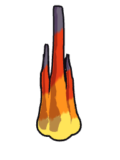
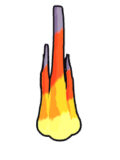
Toon materials render in MoonRay as the viewport shows them, and can glow
MoonRay's toon ramp runs from fully lit (0) to edge-on (1), and a stepped key's
colour holds up to its position; ours ran the other way, so lit faces took the
shadow colour. The ramp is now built that way round, with the shadow size in
where the bands change. Toon materials get a light of their own, from the
scene's strongest light, at the strength that shows a lit band at its colour
(MoonRay's toon diffuse is flat, at half a plain surface's), and the shadow
tint comes from emission, so unlit sides show base × tint as in the viewport
rather than black.

The Toon Shader has a Glow setting: it glows in its own lit colour (Cd, with
Use point colour) times this, in the viewport and in MoonRay. Toon fire glows
at 0.5.

Changed region(s): [[0.3, 0.0312, 0.675, 0.875]]

diff --git a/src/shading.rs b/src/shading.rs
@@ -113,6 +113,8 @@ pub const TOON: &[Param] = &[
     t("use_point_color", "Use point colour (Cd)", "Toon", false),
     f("outline_width", "Outline width (pixels)", "Outline", 0.0, 12.0, 2.0),
     c("outline_color", "Outline color", "Outline", [0.06, 0.05, 0.08]),
+    // Glows in its own lit colour (Cd, with Use point colour) times this: flames, magic.
+    f("glow", "Glow (own colour)", "Emission", 0.0, 3.0, 0.0),
 ];
 
 pub type Preset = (&'static str, &'static [(&'static str, [f32; 3])]);
@@ -360,7 +362,7 @@ impl Values {
             shade: [self.float("bands").round().clamp(2.0, 8.0), self.float("softness").clamp(0.0, 1.0), self.float("terminator"), self.float("highlight_size").clamp(0.0, 1.0)],
             shadow: [sr, sg, sb, self.float("outline_width").max(0.0)],
             highlight: [highlight[0], highlight[1], highlight[2], 0.0],
-            emission: [emission[0], emission[1], emission[2], 0.0],
+            emission: [emission[0], emission[1], emission[2], self.float("glow").max(0.0)],
             outline: [or, og, ob, 1.0],
         }
     }
@@ -506,32 +508,54 @@ pub fn hair_rdla(name: &str, p: &Values) -> (&'static str, String) {
 
 // DwaToonMaterial: banded ramp diffuse from the shadow tint up to the lit colour,
 // with a hard-edged toon highlight.
+// MoonRay's toon material, made to look like the viewport's Toon shading (fs_toon in
+// gpu_viewport.rs), which shows the lit band at the surface's own colour however bright
+// the light is, the unlit side at that colour times the shadow tint, and no shading
+// between bands. MoonRay's toon diffuse is flat within a band but looks its ramp up from
+// fully lit (0) to edge-on (1), is lit only on the side facing the light, and scales with
+// the light; so:
+// - the ramp runs from the top band at 0 down to the darkest, with the shadow size folded
+//   into where the bands change;
+// - the shadow tint's share comes from emission (base × shadow tint, everywhere, as in the
+//   viewport, which casts no shadows), and the ramp adds the rest, (1 - tint) × band;
+// - toon materials are lit by one light of their own (TOON_LIGHT in render.rs), strong
+//   enough that a fully lit band shows the base colour exactly.
+// Glow and the emission colour add to the emission.
 pub fn toon_rdla(name: &str, p: &Values, objects: &mut String) -> (&'static str, String) {
     let bands = (p.float("bands").round() as usize).clamp(2, 8);
-    let shadow = p.color("shadow_color");
-    let mut positions = Vec::new();
+    let shadow = p.color("shadow_color").map(|c| c.clamp(0.0, 1.0));
+    let shift = p.float("terminator");
+    // The viewport's band k starts where the light, cos + shift, reaches k / bands, i.e. at
+    // 1 - cos = 1 + shift - k / bands. MoonRay's stepped ramp shows each key's colour up to
+    // its position (from the key before), so each band's key sits where the band ends:
+    // band k ends at 1 + shift - k / bands, and the darkest at 1.
+    let mut positions: Vec<f32> = Vec::new();
     let mut colours = Vec::new();
-    for i in 0..bands {
-        let t = i as f32 / (bands - 1) as f32;
-        positions.push(format!("{:.4}", i as f32 / bands as f32));
-        colours.push(rgb(std::array::from_fn(|k| shadow[k] + (1.0 - shadow[k]) * t)));
+    for j in 0..bands {
+        let band = bands - 1 - j;
+        let at = if band == 0 { 1.0 } else { (1.0 + shift - band as f32 / bands as f32).clamp(0.0, 1.0) };
+        positions.push(at.max(positions.last().copied().unwrap_or(0.0)));
+        let level = band as f32 / (bands - 1) as f32;
+        colours.push(rgb(std::array::from_fn(|k| (1.0 - shadow[k]) * level)));
     }
     let interpolation = if p.float("softness") > 0.5 { 1 } else { 0 };
     let mut body = String::new();
-    let albedo = if p.flag("use_point_color") {
+    let point_colour = p.flag("use_point_color").then(|| {
         let map = format!("{name}_point_color");
         objects.push_str(&attribute_map(&map, "Cd", 3, p.color("base_color")));
-        // Bound, as maps must be: given plainly, MoonRay keeps the attribute's default (grey).
-        format!("bind(AttributeMap(\"{map}\"))")
-    } else {
-        rgb(p.color("base_color"))
+        map
+    });
+    let albedo = match &point_colour {
+        Some(map) => format!("bind(AttributeMap(\"{map}\"))"),
+        None => rgb(p.color("base_color")),
     };
     body.push_str(&format!("    [\"albedo\"] = {albedo},\n"));
     body.push_str("    [\"diffuse_model\"] = 1,\n");
-    body.push_str(&format!("    [\"positions\"] = {{{}}},\n", positions.join(", ")));
+    body.push_str(&format!("    [\"positions\"] = {{{}}},\n", positions.iter().map(|x| format!("{x:.4}")).collect::<Vec<_>>().join(", ")));
     body.push_str(&format!("    [\"colors\"] = {{{}}},\n", colours.join(", ")));
     body.push_str(&format!("    [\"interpolations\"] = {{{}}},\n", vec![interpolation.to_string(); bands].join(", ")));
-    body.push_str(&format!("    [\"terminator_shift\"] = {:.4},\n", p.float("terminator")));
+    // The shadow size is in the positions above.
+    body.push_str("    [\"terminator_shift\"] = 0.0,\n");
     let highlight = p.float("highlight");
     if highlight > 0.0 {
         body.push_str("    [\"specular_model\"] = 2,\n");
@@ -541,10 +565,26 @@ pub fn toon_rdla(name: &str, p: &Values, objects: &mut String) -> (&'static str,
     } else {
         body.push_str("    [\"show_specular\"] = false,\n");
     }
-    let emission = p.float("emission_intensity");
-    if emission > 0.0 {
+    // Emission: base × (shadow tint + glow) + the emission colour.
+    let glow = p.float("glow").max(0.0);
+    let gain: [f32; 3] = std::array::from_fn(|k| shadow[k] + glow);
+    let constant = p.color("emission_color").map(|c| c * p.float("emission_intensity").max(0.0));
+    if gain.iter().chain(&constant).any(|v| *v > 0.0) {
         body.push_str("    [\"show_emission\"] = true,\n");
-        body.push_str(&format!("    [\"emission\"] = {},\n", rgb(p.color("emission_color").map(|c| c * emission))));
+        match &point_colour {
+            Some(map) => {
+                let glow_map = format!("{name}_glow");
+                objects.push_str(&format!(
+                    "ColorCorrectGainOffsetMap(\"{glow_map}\") {{\n    [\"input\"] = bind(AttributeMap(\"{map}\")),\n    [\"use_per_channel_gain_offset\"] = true,\n    [\"gain_r\"] = {:.4},\n    [\"gain_g\"] = {:.4},\n    [\"gain_b\"] = {:.4},\n    [\"offset_r\"] = {:.4},\n    [\"offset_g\"] = {:.4},\n    [\"offset_b\"] = {:.4},\n}}\n\n",
+                    gain[0], gain[1], gain[2], constant[0], constant[1], constant[2]
+                ));
+                body.push_str(&format!("    [\"emission\"] = bind(ColorCorrectGainOffsetMap(\"{glow_map}\")),\n"));
+            }
+            None => {
+                let base = p.color("base_color");
+                body.push_str(&format!("    [\"emission\"] = {},\n", rgb(std::array::from_fn(|k| base[k] * gain[k] + constant[k]))));
+            }
+        }
     }
     ("DwaToonMaterial", format!("DwaToonMaterial(\"{name}\") {{\n{body}}}\n"))
 }

diff --git a/src/app/render.rs b/src/app/render.rs
@@ -1187,6 +1187,30 @@ impl ProceduralFxStudioApp {
             light_names.push("EnvLight(\"/scene/lights/env\")".to_string());
         }
 
+        // Toon materials' own light (see shading::toon_rdla): from the strongest light, or
+        // the key light's direction, at the strength that shows a lit band at its colour.
+        let toon_parts: Vec<bool> = parts.iter().map(|(_, m)| matches!(m, PartMaterial::Node(id) if matches!(self.graph.nodes.get(id).map(|n| &n.kind), Some(NodeKind::Shader(v)) if v.table == shading::Table::Toon))).collect();
+        if toon_parts.iter().any(|t| *t) {
+            let strongest = scene.lights.iter().max_by(|a, b| a.3.partial_cmp(&b.3).unwrap_or(std::cmp::Ordering::Equal));
+            let direction = match strongest {
+                Some((position, _, _, _, 1)) => Vec3::zero().sub(*position).normalize(),
+                Some((_, direction, ..)) => *direction,
+                None => Vec3::from_arr(self.key_light_dir).normalize(),
+            };
+            let color = strongest.map_or([1.0; 3], |l| l.2);
+            let z = Vec3::new(-direction.x, -direction.y, direction.z).normalize();
+            let hint = if z.y.abs() > 0.99 { Vec3::new(1.0, 0.0, 0.0) } else { Vec3::new(0.0, 1.0, 0.0) };
+            let x = hint.cross(z).normalize();
+            let y = z.cross(x);
+            writeln!(f, "DistantLight(\"/scene/lights/toon\") {{") .map_err(|e| e.to_string())?;
+            writeln!(f, "    [\"node_xform\"] = {},", mat4(x, y, z, Vec3::zero())) .map_err(|e| e.to_string())?;
+            writeln!(f, "    [\"color\"] = Rgb({:.4}, {:.4}, {:.4}),", color[0], color[1], color[2]) .map_err(|e| e.to_string())?;
+            writeln!(f, "    [\"intensity\"] = {TOON_LIGHT:.4},") .map_err(|e| e.to_string())?;
+            writeln!(f, "    [\"angular_extent\"] = 0.53,") .map_err(|e| e.to_string())?;
+            writeln!(f, "}}\n") .map_err(|e| e.to_string())?;
+            writeln!(f, "LightSet(\"/scene/lightsets/toon\") {{\n    DistantLight(\"/scene/lights/toon\"),\n}}\n") .map_err(|e| e.to_string())?;
+        }
+
         writeln!(f, "LightSet(\"/scene/lightsets/LightSet1\") {{") .map_err(|e| e.to_string())?;
         for light in &light_names {
             writeln!(f, "    {light},") .map_err(|e| e.to_string())?;
@@ -1194,9 +1218,10 @@ impl ProceduralFxStudioApp {
         writeln!(f, "}}\n") .map_err(|e| e.to_string())?;
 
         writeln!(f, "Layer(\"/scene/layers/Layer1\") {{") .map_err(|e| e.to_string())?;
-        for (geometry, material) in part_geometry.iter().zip(&layer_materials) {
+        for ((geometry, material), toon) in part_geometry.iter().zip(&layer_materials).zip(&toon_parts) {
+            let lights = if *toon { "toon" } else { "LightSet1" };
             for geometry in geometry {
-                writeln!(f, "    {{{geometry}, \"\", {material}, LightSet(\"/scene/lightsets/LightSet1\"), undef(), undef(), undef(), undef()}},") .map_err(|e| e.to_string())?;
+                writeln!(f, "    {{{geometry}, \"\", {material}, LightSet(\"/scene/lightsets/{lights}\"), undef(), undef(), undef(), undef()}},") .map_err(|e| e.to_string())?;
             }
         }
         for index in 0..scene.volumes.len() {
@@ -1616,3 +1641,7 @@ fn particle_material(name: &str, mesh: &Mesh) -> String {
     }
     format!("{maps}DwaBaseMaterial(\"{name}\") {{\n{}\n}}\n\n", attrs.join("\n"))
 }
+
+// How strong toon materials' own light is: MoonRay's toon diffuse is flat, at half what a
+// plain surface facing a light of strength 1 gets, so 2 shows a lit band at its colour.
+pub(crate) const TOON_LIGHT: f32 = 2.0 * DISTANT_LIGHT_SCALE;

diff --git a/src/gpu_viewport.rs b/src/gpu_viewport.rs
@@ -72,7 +72,7 @@ pub struct ToonMaterial {
     pub shadow: [f32; 4],
     // Highlight colour times its strength.
     pub highlight: [f32; 4],
-    // Emission colour times its intensity.
+    // Emission colour times its intensity, and the glow (its own colour times this).
     pub emission: [f32; 4],
     pub outline: [f32; 4],
 }
@@ -91,7 +91,7 @@ impl ToonMaterial {
         let k = ((f - (1.0 - w)) / w).clamp(0.0, 1.0);
         let band = ((x.floor() + k * k * (3.0 - 2.0 * k)) / (bands - 1.0)).clamp(0.0, 1.0);
         let spot = if t >= 1.0 - 0.3 * self.shade[3] { 1.0 } else { 0.0 };
-        std::array::from_fn(|c| (base[c] * (self.shadow[c] + (1.0 - self.shadow[c]) * band) + self.highlight[c] * spot + self.emission[c]).clamp(0.0, 1.0))
+        std::array::from_fn(|c| (base[c] * (self.shadow[c] + (1.0 - self.shadow[c]) * band + self.emission[3]) + self.highlight[c] * spot + self.emission[c]).clamp(0.0, 1.0))
     }
 }
 
@@ -418,7 +418,7 @@ struct Toon {
     shade: vec4<f32>,     // bands, softness, shadow size, highlight size
     shadow: vec4<f32>,    // shadow tint, outline width (pixels)
     highlight: vec4<f32>, // colour × strength
-    emission: vec4<f32>,  // colour × intensity
+    emission: vec4<f32>,  // colour × intensity, and glow (own colour × w)
     outline: vec4<f32>,   // colour
 };
 @group(2) @binding(0) var<uniform> toons: array<Toon, 16>;
@@ -456,7 +456,7 @@ fn fs_toon(in: ToonOut) -> @location(0) vec4<f32> {
     var rgb = in.color.rgb * mix(m.shadow.rgb, vec3<f32>(1.0), band);
     let edge = 1.0 - 0.3 * m.shade.w;
     let spot = smoothstep(edge - fwidth(t), edge, t);
-    rgb = rgb + m.highlight.rgb * spot + m.emission.rgb;
+    rgb = rgb + m.highlight.rgb * spot + m.emission.rgb + in.color.rgb * m.emission.w;
     return vec4<f32>(clamp(rgb, vec3<f32>(0.0), vec3<f32>(1.0)), 1.0);
 }
 

diff --git a/src/app_tests/whitewater_node_tests.rs b/src/app_tests/whitewater_node_tests.rs
@@ -139,4 +139,7 @@ fn toon_fire_renders_in_colour_in_moonray() {
     let lit = render.pixels().filter(|p| p[0] + p[1] + p[2] > 0.1).count();
     let coloured = render.pixels().filter(|p| p[0] + p[1] + p[2] > 0.1 && p[0] > p[2] * 1.5).count();
     assert!(lit > 200 && coloured * 2 > lit, "{coloured} of {lit} lit pixels are warm");
+    // As bright as the viewport shows it: its lit bands at their full colour, glowing.
+    let bright = render.pixels().filter(|p| p[0] > 0.9).count();
+    assert!(bright * 3 > lit, "{bright} of {lit} lit pixels are bright");
 }

diff --git a/docs/scene-nodes.md b/docs/scene-nodes.md
@@ -253,7 +253,7 @@ Generated from the code by `node_reference_is_current` (see [scene-format.md](sc
 | Node | Saved as | Parameters |
 | --- | --- | --- |
 | Principled | `principled_shader` | 3 text field(s); #0=0, base_color.r=0.8, base_color.g=0.8, base_color.b=0.8, use_point_color=0, metallic=0, roughness=0.4, specular=1, ior=1.5, transmission=0, transmission_color.r=1, transmission_color.g=1, transmission_color.b=1, thin_walled=0, subsurface=0, subsurface_color.r=1, subsurface_color.g=0.45, subsurface_color.b=0.3, subsurface_radius=1, sheen=0, sheen_color.r=1, sheen_color.g=1, sheen_color.b=1, sheen_roughness=0.3, clearcoat=0, clearcoat_roughness=0.05, emission_color.r=1, emission_color.g=1, emission_color.b=1, emission_intensity=0, opacity=1, anisotropy=0, iridescence=0, texture_scale_u=1, texture_scale_v=1, use_point_alpha=0 |
-| Toon Shader | `toon_shader` | #0=0, base_color.r=0.9, base_color.g=0.35, base_color.b=0.25, shadow_color.r=0.25, shadow_color.g=0.2, shadow_color.b=0.35, bands=2, softness=0, terminator=0.05, highlight=1, highlight_size=0.3, highlight_color.r=1, highlight_color.g=1, highlight_color.b=1, emission_color.r=1, emission_color.g=1, emission_color.b=1, emission_intensity=0, use_point_color=0, outline_width=2, outline_color.r=0.06, outline_color.g=0.05, outline_color.b=0.08 |
+| Toon Shader | `toon_shader` | #0=0, base_color.r=0.9, base_color.g=0.35, base_color.b=0.25, shadow_color.r=0.25, shadow_color.g=0.2, shadow_color.b=0.35, bands=2, softness=0, terminator=0.05, highlight=1, highlight_size=0.3, highlight_color.r=1, highlight_color.g=1, highlight_color.b=1, emission_color.r=1, emission_color.g=1, emission_color.b=1, emission_intensity=0, use_point_color=0, outline_width=2, outline_color.r=0.06, outline_color.g=0.05, outline_color.b=0.08, glow=0 |
 | Hair Shader | `hair_shader` | #0=0, hair_color.r=0.3, hair_color.g=0.17, hair_color.b=0.08, roughness=0.35, ior=1.55, specular_tint.r=1, specular_tint.g=1, specular_tint.b=1, glint=0 |
 | Pyro Shader | `pyro_shader` | #0=0, smoke_color.r=0.2, smoke_color.g=0.2, smoke_color.b=0.2, smoke_density=1, anisotropy=0.3, fire_color.r=1, fire_color.g=1, fire_color.b=1, fire_intensity=1 |
 | material_builder | `material_builder` | none |
@@ -341,11 +341,11 @@ Generated from the code by `node_reference_is_current` (see [scene-format.md](sc
 
 | Node | Saved as | Parameters |
 | --- | --- | --- |
-| Anime | `toon_shader` | #0=1, base_color.r=0.9, base_color.g=0.35, base_color.b=0.25, shadow_color.r=0.25, shadow_color.g=0.2, shadow_color.b=0.35, bands=2, softness=0, terminator=0.05, highlight=1.2, highlight_size=0.15, highlight_color.r=1, highlight_color.g=1, highlight_color.b=1, emission_color.r=1, emission_color.g=1, emission_color.b=1, emission_intensity=0, use_point_color=0, outline_width=2, outline_color.r=0.06, outline_color.g=0.05, outline_color.b=0.08 |
-| Cel 3 Tone | `toon_shader` | #0=2, base_color.r=0.9, base_color.g=0.35, base_color.b=0.25, shadow_color.r=0.25, shadow_color.g=0.2, shadow_color.b=0.35, bands=3, softness=0, terminator=0.05, highlight=1, highlight_size=0.3, highlight_color.r=1, highlight_color.g=1, highlight_color.b=1, emission_color.r=1, emission_color.g=1, emission_color.b=1, emission_intensity=0, use_point_color=0, outline_width=2, outline_color.r=0.06, outline_color.g=0.05, outline_color.b=0.08 |
-| Soft Toon | `toon_shader` | #0=3, base_color.r=0.9, base_color.g=0.35, base_color.b=0.25, shadow_color.r=0.25, shadow_color.g=0.2, shadow_color.b=0.35, bands=3, softness=1, terminator=0.05, highlight=0.6, highlight_size=0.5, highlight_color.r=1, highlight_color.g=1, highlight_color.b=1, emission_color.r=1, emission_color.g=1, emission_color.b=1, emission_intensity=0, use_point_color=0, outline_width=2, outline_color.r=0.06, outline_color.g=0.05, outline_color.b=0.08 |
-| Toon Metal | `toon_shader` | #0=4, base_color.r=0.8, base_color.g=0.8, base_color.b=0.85, shadow_color.r=0.15, shadow_color.g=0.15, shadow_color.b=0.25, bands=4, softness=0, terminator=0.05, highlight=2, highlight_size=0.08, highlight_color.r=1, highlight_color.g=1, highlight_color.b=1, emission_color.r=1, emission_color.g=1, emission_color.b=1, emission_intensity=0, use_point_color=0, outline_width=2, outline_color.r=0.06, outline_color.g=0.05, outline_color.b=0.08 |
-| Toon FX | `toon_shader` | #0=5, base_color.r=0.9, base_color.g=0.35, base_color.b=0.25, shadow_color.r=0.72, shadow_color.g=0.6, shadow_color.b=0.78, bands=2, softness=0, terminator=0.35, highlight=0, highlight_size=0.3, highlight_color.r=1, highlight_color.g=1, highlight_color.b=1, emission_color.r=1, emission_color.g=1, emission_color.b=1, emission_intensity=0, use_point_color=1, outline_width=2.5, outline_color.r=0.06, outline_color.g=0.05, outline_color.b=0.08 |
+| Anime | `toon_shader` | #0=1, base_color.r=0.9, base_color.g=0.35, base_color.b=0.25, shadow_color.r=0.25, shadow_color.g=0.2, shadow_color.b=0.35, bands=2, softness=0, terminator=0.05, highlight=1.2, highlight_size=0.15, highlight_color.r=1, highlight_color.g=1, highlight_color.b=1, emission_color.r=1, emission_color.g=1, emission_color.b=1, emission_intensity=0, use_point_color=0, outline_width=2, outline_color.r=0.06, outline_color.g=0.05, outline_color.b=0.08, glow=0 |
+| Cel 3 Tone | `toon_shader` | #0=2, base_color.r=0.9, base_color.g=0.35, base_color.b=0.25, shadow_color.r=0.25, shadow_color.g=0.2, shadow_color.b=0.35, bands=3, softness=0, terminator=0.05, highlight=1, highlight_size=0.3, highlight_color.r=1, highlight_color.g=1, highlight_color.b=1, emission_color.r=1, emission_color.g=1, emission_color.b=1, emission_intensity=0, use_point_color=0, outline_width=2, outline_color.r=0.06, outline_color.g=0.05, outline_color.b=0.08, glow=0 |
+| Soft Toon | `toon_shader` | #0=3, base_color.r=0.9, base_color.g=0.35, base_color.b=0.25, shadow_color.r=0.25, shadow_color.g=0.2, shadow_color.b=0.35, bands=3, softness=1, terminator=0.05, highlight=0.6, highlight_size=0.5, highlight_color.r=1, highlight_color.g=1, highlight_color.b=1, emission_color.r=1, emission_color.g=1, emission_color.b=1, emission_intensity=0, use_point_color=0, outline_width=2, outline_color.r=0.06, outline_color.g=0.05, outline_color.b=0.08, glow=0 |
+| Toon Metal | `toon_shader` | #0=4, base_color.r=0.8, base_color.g=0.8, base_color.b=0.85, shadow_color.r=0.15, shadow_color.g=0.15, shadow_color.b=0.25, bands=4, softness=0, terminator=0.05, highlight=2, highlight_size=0.08, highlight_color.r=1, highlight_color.g=1, highlight_color.b=1, emission_color.r=1, emission_color.g=1, emission_color.b=1, emission_intensity=0, use_point_color=0, outline_width=2, outline_color.r=0.06, outline_color.g=0.05, outline_color.b=0.08, glow=0 |
+| Toon FX | `toon_shader` | #0=5, base_color.r=0.9, base_color.g=0.35, base_color.b=0.25, shadow_color.r=0.72, shadow_color.g=0.6, shadow_color.b=0.78, bands=2, softness=0, terminator=0.35, highlight=0, highlight_size=0.3, highlight_color.r=1, highlight_color.g=1, highlight_color.b=1, emission_color.r=1, emission_color.g=1, emission_color.b=1, emission_intensity=0, use_point_color=1, outline_width=2.5, outline_color.r=0.06, outline_color.g=0.05, outline_color.b=0.08, glow=0 |
 | Brown Hair | `hair_shader` | #0=1, hair_color.r=0.3, hair_color.g=0.17, hair_color.b=0.08, roughness=0.35, ior=1.55, specular_tint.r=1, specular_tint.g=1, specular_tint.b=1, glint=0 |
 | Blonde Hair | `hair_shader` | #0=2, hair_color.r=0.75, hair_color.g=0.58, hair_color.b=0.33, roughness=0.35, ior=1.55, specular_tint.r=1, specular_tint.g=1, specular_tint.b=1, glint=0 |
 | Black Hair | `hair_shader` | #0=3, hair_color.r=0.03, hair_color.g=0.02, hair_color.b=0.015, roughness=0.25, ior=1.55, specular_tint.r=1, specular_tint.g=1, specular_tint.b=1, glint=0 |
